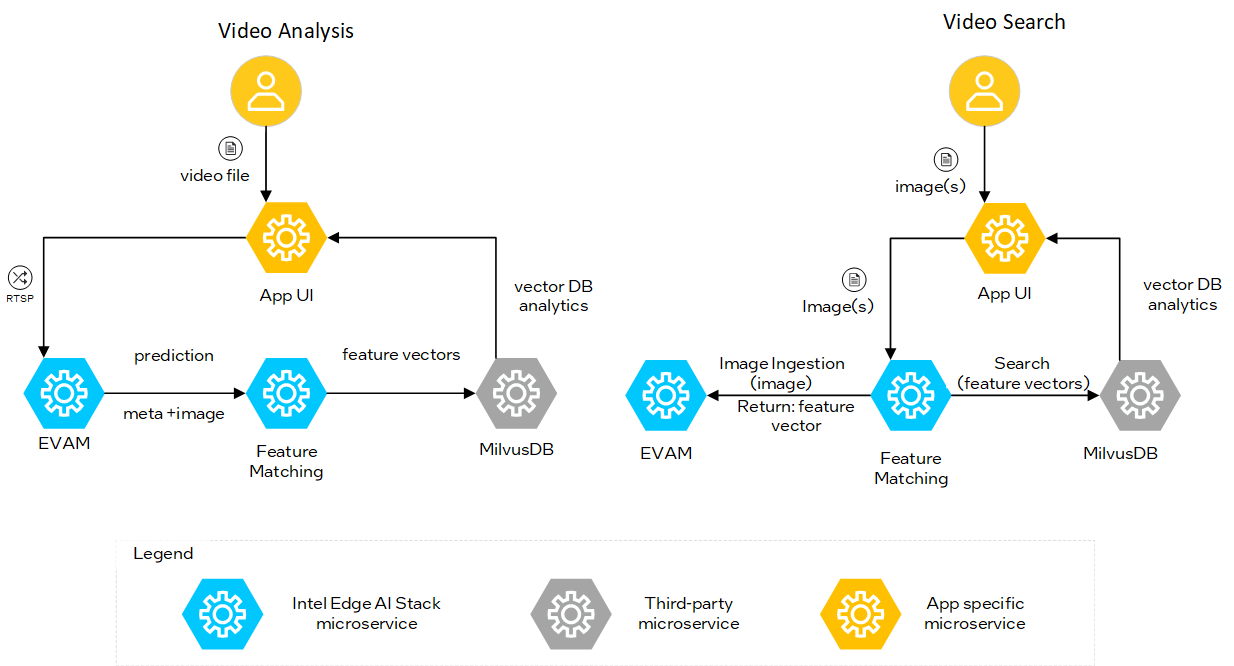
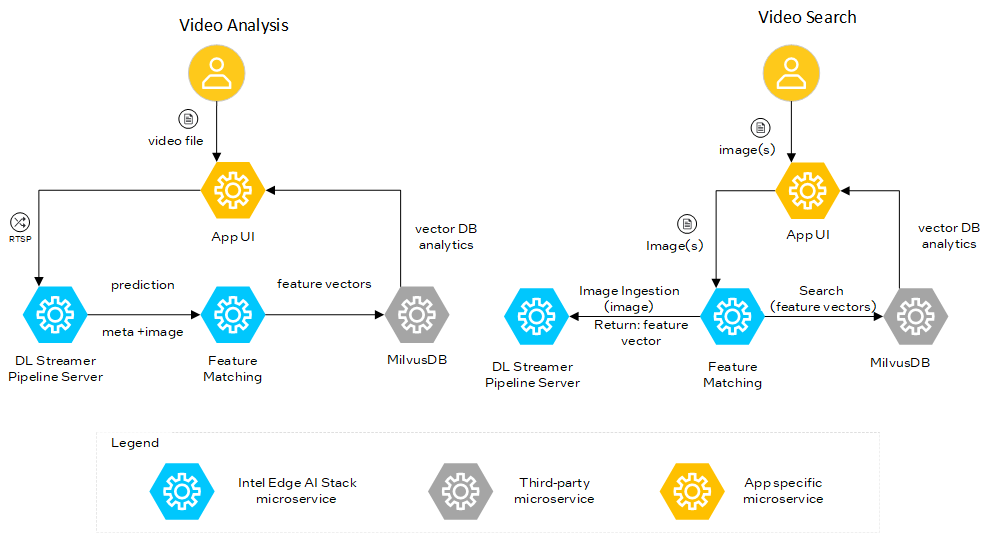
DL Streamer Pipeline Server Documentation in Search Image by Image(#34)
* Replace EVAM with DL Streamer Pipeline Server

diff --git a/metro-ai-suite/search-image-by-image/docs/user-guide/release-notes.md b/metro-ai-suite/search-image-by-image/docs/user-guide/release-notes.md
@@ -47,10 +47,10 @@ Details about the changes, improvements, and known issues in this release of the
      - [Learn More](./how-to-customize.md)
 -->
 
-- **MediaMTX**: This third-party microservice simulates remote video cameras placed in various geographical locations. The service can replay videos from recorded files and publish them as live video streams in different formats. The RTSP stream is sent to EVAM microservice for extraction of feature vectors. The WebRTC stream is useful for displaying live video streams in this web application.
-- **EVAM**: This microservice operates either in streaming mode (video analysis) or image ingestion mode (video search). During the video analysis phase, it consumes RTSP streams from simulated remote cameras and performs object detection and feature extraction tasks. The resulting predictions are published as metadata to an MQTT Broker. During the video search phase, the microservice returns feature vectors for submitted images.
-- **Feature Matching**: This microservice interacts with EVAM and Vector DB. During the video analysis phase, it inserts feature vectors (image embeddings) generated by EVAM into Vector DB. Additionally, it stores frames that are useful for displaying in search results when a user searches for an object. During the video search phase, the microservice queries EVAM to get feature vectors for the user-provided image and then queries Vector DB to find the matching frame(s) from video streams processed in the analysis phase.
-- **MQTT**: This third-party microservice transfers a stream of metadata between EVAM and Feature Matching during the video analysis phase.
+- **MediaMTX**: This third-party microservice simulates remote video cameras placed in various geographical locations. The service can replay videos from recorded files and publish them as live video streams in different formats. The RTSP stream is sent to DL Streamer Pipeline Server microservice for extraction of feature vectors. The WebRTC stream is useful for displaying live video streams in this web application.
+- **Deep Learning Streamer Pipeline Server**: This microservice operates either in streaming mode (video analysis) or image ingestion mode (video search). During the video analysis phase, it consumes RTSP streams from simulated remote cameras and performs object detection and feature extraction tasks. The resulting predictions are published as metadata to an MQTT Broker. During the video search phase, the microservice returns feature vectors for submitted images.
+- **Feature Matching**: This microservice interacts with DL Streamer Pipeline Server and Vector DB. During the video analysis phase, it inserts feature vectors (image embeddings) generated by the Pipeline Server into Vector DB. Additionally, it stores frames that are useful for displaying in search results when a user searches for an object. During the video search phase, the microservice queries the Pipeline Server to get feature vectors for the user-provided image and then queries Vector DB to find the matching frame(s) from video streams processed in the analysis phase.
+- **MQTT**: This third-party microservice transfers a stream of metadata between DL Streamer Pipeline Server and Feature Matching during the video analysis phase.
 - **MilvusDB**: This third-party microservice stores feature vectors in a Vector DB and provides a vector search to find the closest match between a user-provided image and previously processed video frames.
 
 

diff --git a/metro-ai-suite/search-image-by-image/README.md b/metro-ai-suite/search-image-by-image/README.md
@@ -23,10 +23,10 @@ The application includes a demonstration video for testing. The video loops cont
 
 ### Processing
 
-- **Video analysis with Edge Video Analytics Microservice (EVAM) and MediaMTX**: Select **Analyze Stream** to start the EVAM pipeline. EVAM processes video through **MediaMTX**, which simulates remote video cameras and publishes live streams. EVAM extracts frames and detects objects in each frame, publishing predictions through **MQTT**.
-- **Feature extraction with Feature Matching**: EVAM sends metadata and images through MQTT to the Feature Matching microservice. Feature Matching generates feature vectors. If predictions exceed the threshold, the system stores vector embeddings in MilvusDB and saves frames in the Docker file system.
+- **Video analysis with Deep Learning Streamer Pipeline Server and MediaMTX**: Select **Analyze Stream** to start the DL Streamer Pipeline Server pipeline. The Pipeline Server processes video through **MediaMTX**, which simulates remote video cameras and publishes live streams. The Pipeline Server extracts frames and detects objects in each frame, publishing predictions through **MQTT**.
+- **Feature extraction with Feature Matching**: DL Streamer Pipeline Server sends metadata and images through MQTT to the Feature Matching microservice. Feature Matching generates feature vectors. If predictions exceed the threshold, the system stores vector embeddings in MilvusDB and saves frames in the Docker file system.
 - **Storage and retrieval in MilvusDB**: MilvusDB stores feature vectors. You can review them in MilvusUI.
-- **Video search with ImageIngestor**: To search, first analyze the stream by selecting **Analyze Stream**. Then upload an image or capture an object from the video using **Upload Image** or **Capture Frame**. You can adjust the frame to capture a specific object. The system ingests images via ImageIngestor, processes them with EVAM, and matches them against stored feature vectors in MilvusDB.
+- **Video search with ImageIngestor**: To search, first analyze the stream by selecting **Analyze Stream**. Then upload an image or capture an object from the video using **Upload Image** or **Capture Frame**. You can adjust the frame to capture a specific object. The system ingests images via ImageIngestor, processes them with DL Streamer Pipeline Server, and matches them against stored feature vectors in MilvusDB.
 
 ### Outputs
 

diff --git a/metro-ai-suite/search-image-by-image/docs/user-guide/Overview.md b/metro-ai-suite/search-image-by-image/docs/user-guide/Overview.md
@@ -23,10 +23,10 @@ The application includes a demonstration video for testing. The video loops cont
 
 ### Processing
 
-- **Video analysis with Edge Video Analytics Microservice (EVAM) and MediaMTX**: Select **Analyze Stream** to start the EVAM pipeline. EVAM processes video through **MediaMTX**, which simulates remote video cameras and publishes live streams. EVAM extracts frames and detects objects in each frame, publishing predictions through **MQTT**.
-- **Feature extraction with Feature Matching**: EVAM sends metadata and images through MQTT to the Feature Matching microservice. Feature Matching generates feature vectors. If predictions exceed the threshold, the system stores vector embeddings in MilvusDB and saves frames in the Docker file system.
+- **Video analysis with Deep Learning Streamer Pipeline Server and MediaMTX**: Select **Analyze Stream** to start the DL Streamer Pipeline Server pipeline. The Pipeline Server processes video through **MediaMTX**, which simulates remote video cameras and publishes live streams. The Pipeline Server extracts frames and detects objects in each frame, publishing predictions through **MQTT**.
+- **Feature extraction with Feature Matching**: DL Streamer Pipeline Server sends metadata and images through MQTT to the Feature Matching microservice. Feature Matching generates feature vectors. If predictions exceed the threshold, the system stores vector embeddings in MilvusDB and saves frames in the Docker file system.
 - **Storage and retrieval in MilvusDB**: MilvusDB stores feature vectors. You can review them in MilvusUI.
-- **Video search with ImageIngestor**: To search, first analyze the stream by selecting **Analyze Stream**. Then upload an image or capture an object from the video using **Upload Image** or **Capture Frame**. You can adjust the frame to capture a specific object. The system ingests images via ImageIngestor, processes them with EVAM, and matches them against stored feature vectors in MilvusDB.
+- **Video search with ImageIngestor**: To search, first analyze the stream by selecting **Analyze Stream**. Then upload an image or capture an object from the video using **Upload Image** or **Capture Frame**. You can adjust the frame to capture a specific object. The system ingests images via ImageIngestor, processes them with DL Streamer Pipeline Server, and matches them against stored feature vectors in MilvusDB.
 
 ### Outputs
 

diff --git a/metro-ai-suite/search-image-by-image/docs/user-guide/overview-architecture.md b/metro-ai-suite/search-image-by-image/docs/user-guide/overview-architecture.md
@@ -23,7 +23,7 @@ The Search Image by Image Application is designed to:
    - **User-provided images for search**: Allows users to upload images or for searching within the video streams.
 
 2. **Video Analysis Pipeline**:
-   - **EVAM Microservice**:
+   - **Deep Learning Streamer Pipeline Server**:
      - Consumes RTSP streams for object detection and feature extraction.
      - Publishes metadata to an MQTT Broker.
    - **Feature Matching Microservice**:
@@ -32,7 +32,7 @@ The Search Image by Image Application is designed to:
 
 3. **Video Search Pipeline**:
    - **Feature Matching Microservice**:
-     - Queries EVAM for feature vectors of user-provided images.
+     - Queries DL Streamer Pipeline Server for feature vectors of user-provided images.
      - Searches MilvusDB to find matching frames.
 
 4. **Output Generation**:
@@ -45,7 +45,7 @@ The Search Image by Image Application is designed to:
    - **How it’s used**: Replays videos as RTSP/WebRTC streams for processing and display.
    - **Benefits**: Allows testing of video search features without physical cameras.
 
-2. **EVAM (Microservice for Feature Extraction)**
+2. **DL Streamer Pipeline Server (Microservice for Feature Extraction)**
    - **What it is**: A microservice that processes video streams for object detection and feature extraction.
    - **How it’s used**: Converts RTSP streams into feature vectors and publishes metadata.
    - **Benefits**: Enables efficient AI-powered video analysis.
@@ -57,7 +57,7 @@ The Search Image by Image Application is designed to:
 
 4. **MQTT Broker (Third-Party Microservice)**
    - **What it is**: A message broker for streaming metadata between services.
-   - **How it’s used**: Transfers feature metadata between EVAM and Feature Matching.
+   - **How it’s used**: Transfers feature metadata between DL Streamer Pipeline Server and Feature Matching.
    - **Benefits**: Ensures smooth, real-time metadata communication.
 
 5. **MilvusDB (Vector Database)**

diff --git a/metro-ai-suite/search-image-by-image/BILL_OF_MATERIALS.md b/metro-ai-suite/search-image-by-image/BILL_OF_MATERIALS.md
@@ -2,6 +2,6 @@
 
 | Component                | Included Services/Tools                          |
 |--------------------------|--------------------------------------------------|
-| VisionAI microservices   | EVAM, Feature Matching, RTSP Client              |
+| VisionAI microservices   | Deep Learning Streamer Pipeline Server, Feature Matching, RTSP Client              |
 | Third-party microservices| MQTT, Milvus                                     |
 | Application logic/gui    | Various Python libraries, models, video files    |
